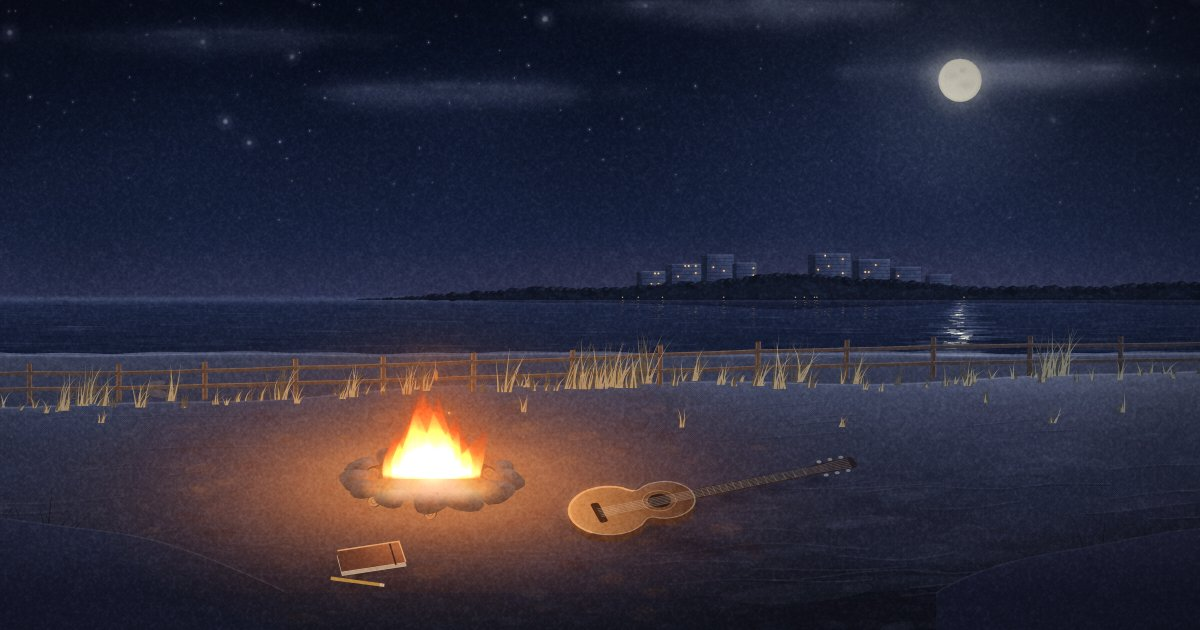
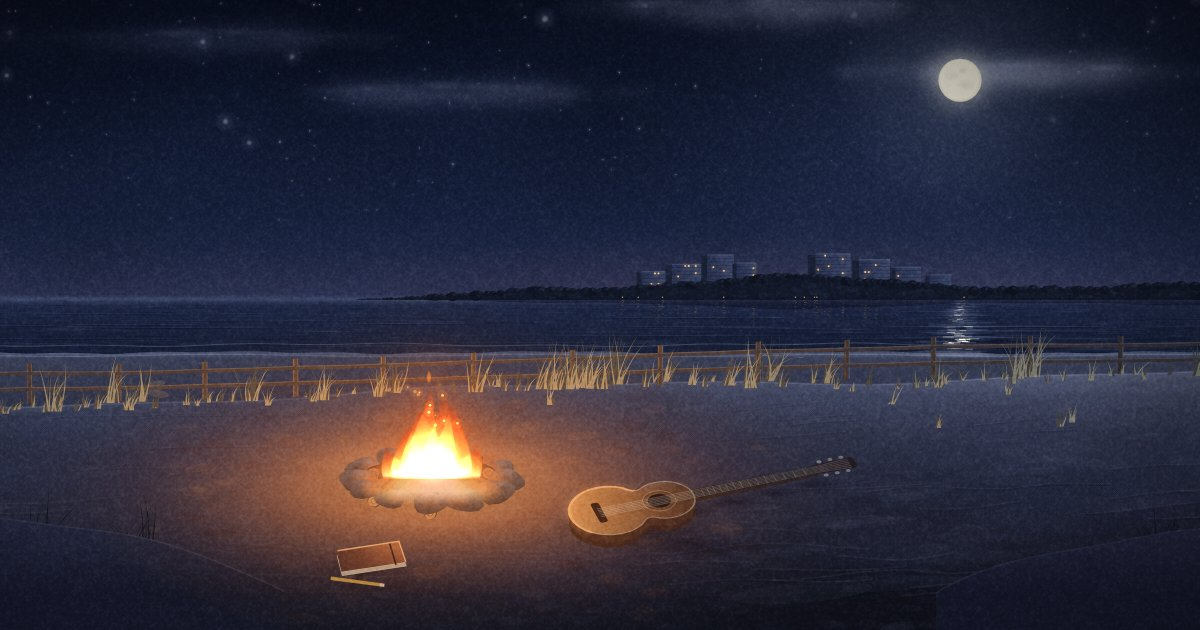
Add slow swells and a foam line to the sea, make the guitar deeper
Claude-Session: https://claude.ai/code/session_01X25qFqS4Nn3YiVEMiKqtDQ

diff --git a/scene/index.html b/scene/index.html
@@ -83,6 +83,7 @@ const cGlow = makeCanvas('', false);    // fire, light, sparks (dynamic; no CSS 
 const F = document.createElement('canvas'), S1 = document.createElement('canvas'), S2 = document.createElement('canvas');
 const fctx = F.getContext('2d'), s1ctx = S1.getContext('2d'), s2ctx = S2.getContext('2d');
 let embers = [];
+let swells = [];
 let L, ctxBack, ctxGrass, ctxGlow, stars = [], dashes = [], clumps = [], sparks = [], starSprite;
 
 function layout(W, H) {
@@ -455,13 +456,13 @@ function bodyPath(ctx) {
 }
 function guitar(ctx, x, y, k, ang) {
   // shadow
-  for (let i = 0; i < 6; i++) { const t = i / 5, d = (-10 + t * 210) * k; blob(ctx, x + Math.cos(ang) * d + 6 * k, y + Math.sin(ang) * d * .62 + 10 * k, (i < 2 ? 52 : 26) * k, (i < 2 ? 18 : 8) * k, [6, 5, 10], .5); }
+  for (let i = 0; i < 6; i++) { const t = i / 5, d = (-10 + t * 210) * k; blob(ctx, x + Math.cos(ang) * d + 7 * k, y + Math.sin(ang) * d * .62 + 14 * k, (i < 2 ? 52 : 26) * k, (i < 2 ? 18 : 8) * k, [6, 5, 10], .5); }
   const frame = (dy) => { ctx.translate(x, y + dy); ctx.scale(k, k * .6); ctx.rotate(ang); };
   // rim (sides)
-  ctx.save(); frame(7 * k); bodyPath(ctx); ctx.fillStyle = '#4a2a17'; ctx.fill(); ctx.restore();
+  for (let d = 12; d >= 1; d -= 1.5) { ctx.save(); frame(d * k); bodyPath(ctx); ctx.fillStyle = d > 8 ? '#3a2012' : '#4a2a17'; ctx.fill(); ctx.restore(); }
   ctx.save(); frame(0);
   // neck side + fingerboard
-  ctx.fillStyle = '#3b2416'; ctx.beginPath(); ctx.moveTo(78, -7); ctx.lineTo(206, -5.5); ctx.lineTo(206, 7.5); ctx.lineTo(78, 9); ctx.closePath(); ctx.fill();
+  ctx.fillStyle = '#3b2416'; ctx.beginPath(); ctx.moveTo(78, -7); ctx.lineTo(206, -5.5); ctx.lineTo(206, 10); ctx.lineTo(78, 12); ctx.closePath(); ctx.fill();
   ctx.fillStyle = '#21140e'; ctx.beginPath(); ctx.moveTo(78, -7); ctx.lineTo(206, -5.5); ctx.lineTo(206, 5.5); ctx.lineTo(78, 7); ctx.closePath(); ctx.fill();
   ctx.strokeStyle = 'rgba(200,190,170,.45)'; ctx.lineWidth = .9;
   for (let i = 0, fxp = 206; i < 14; i++) { fxp -= 11 * Math.pow(.95, i); ctx.beginPath(); ctx.moveTo(fxp, -6); ctx.lineTo(fxp, 6); ctx.stroke(); }
@@ -552,6 +553,9 @@ function buildDynamic() {
     const t = Math.pow(rnd(), .75), y = hz + 2 + (shore - hz - 5) * t, spread = (6 + 75 * t) * sc;
     dashes.push({ y, dx: gauss() * spread * .55, spread, len: R(3, 16) * (.4 + t) * s, th: (.6 + 1.2 * t) * s, w: R(.6, 2), p: R(0, TAU) });
   }
+  // swell crests: each one drifts from the horizon to the shore and fades at both ends
+  swells = [];
+  for (let i = 0; i < (P ? 26 : 46); i++) swells.push({ t0: rnd(), x: R(-.1, 1.1) * W, len: R(.12, .34) * W, sp: R(.010, .016), bend: R(1, 3) });
   // grass clumps
   clumps = [];
   const addClump = (x, y, h, depth, nb, dark) => {
@@ -590,6 +594,20 @@ function drawBack(ctx, t, ox, oy) {
   }
   ctx.globalAlpha = 1;
   const wx = ox * .3, wy = oy * .3;
+  // swells: long thin tapered crests (moonlit) over a dark trough, larger and slower near the shore
+  for (const w of swells) {
+    const u = (w.t0 + t * w.sp) % 1, d = Math.pow(u, 1.6), y = hz + 3 * s + (shore - hz - 6 * s) * d + wy;
+    const a = Math.sin(Math.PI * u), half = w.len * (.35 + .65 * d) / 2, x = w.x + wx + Math.sin(t * .2 + w.t0 * 9) * 6 * s;
+    const b = w.bend * .5 * (.3 + d) * s, th = (.35 + .9 * d) * s, moon = Math.exp(-Math.abs(x - L.mx) / (W * .18));
+    const lens = (dy, k) => { ctx.beginPath(); ctx.moveTo(x - half, y + dy); ctx.quadraticCurveTo(x, y + dy - b - th * k, x + half, y + dy); ctx.quadraticCurveTo(x, y + dy - b + th * k, x - half, y + dy); ctx.fill(); };
+    ctx.fillStyle = `rgba(6,10,24,${(a * .45).toFixed(3)})`; lens(th * 1.8, 1.4);
+    ctx.fillStyle = `rgba(150,168,214,${(a * (.16 + .22 * moon) * (.6 + .6 * d)).toFixed(3)})`; lens(0, 1);
+  }
+  // a line of foam that rolls in and fades as the wash reaches the sand
+  { const ph = (t * .45 / TAU + .25) % 1, yy = shore - (1 - ph) * 16 * s + wy, fa = Math.sin(Math.PI * ph) * .32;
+    ctx.beginPath();
+    for (let x = -10; x <= W + 10; x += 8) { const y = yy + 1.6 * s * Math.sin(x * .013 + t * .25) + 1.2 * s * Math.sin(x * .041 + 1); x === -10 ? ctx.moveTo(x + wx, y) : ctx.lineTo(x + wx, y); }
+    ctx.strokeStyle = `rgba(200,210,235,${fa.toFixed(3)})`; ctx.lineWidth = 1.1 * s; ctx.stroke(); }
   ctx.globalCompositeOperation = 'lighter';
   for (const d of dashes) {
     const v = Math.sin(t * d.w + d.p + d.y * .05), a = v > 0 ? v * v : 0;
